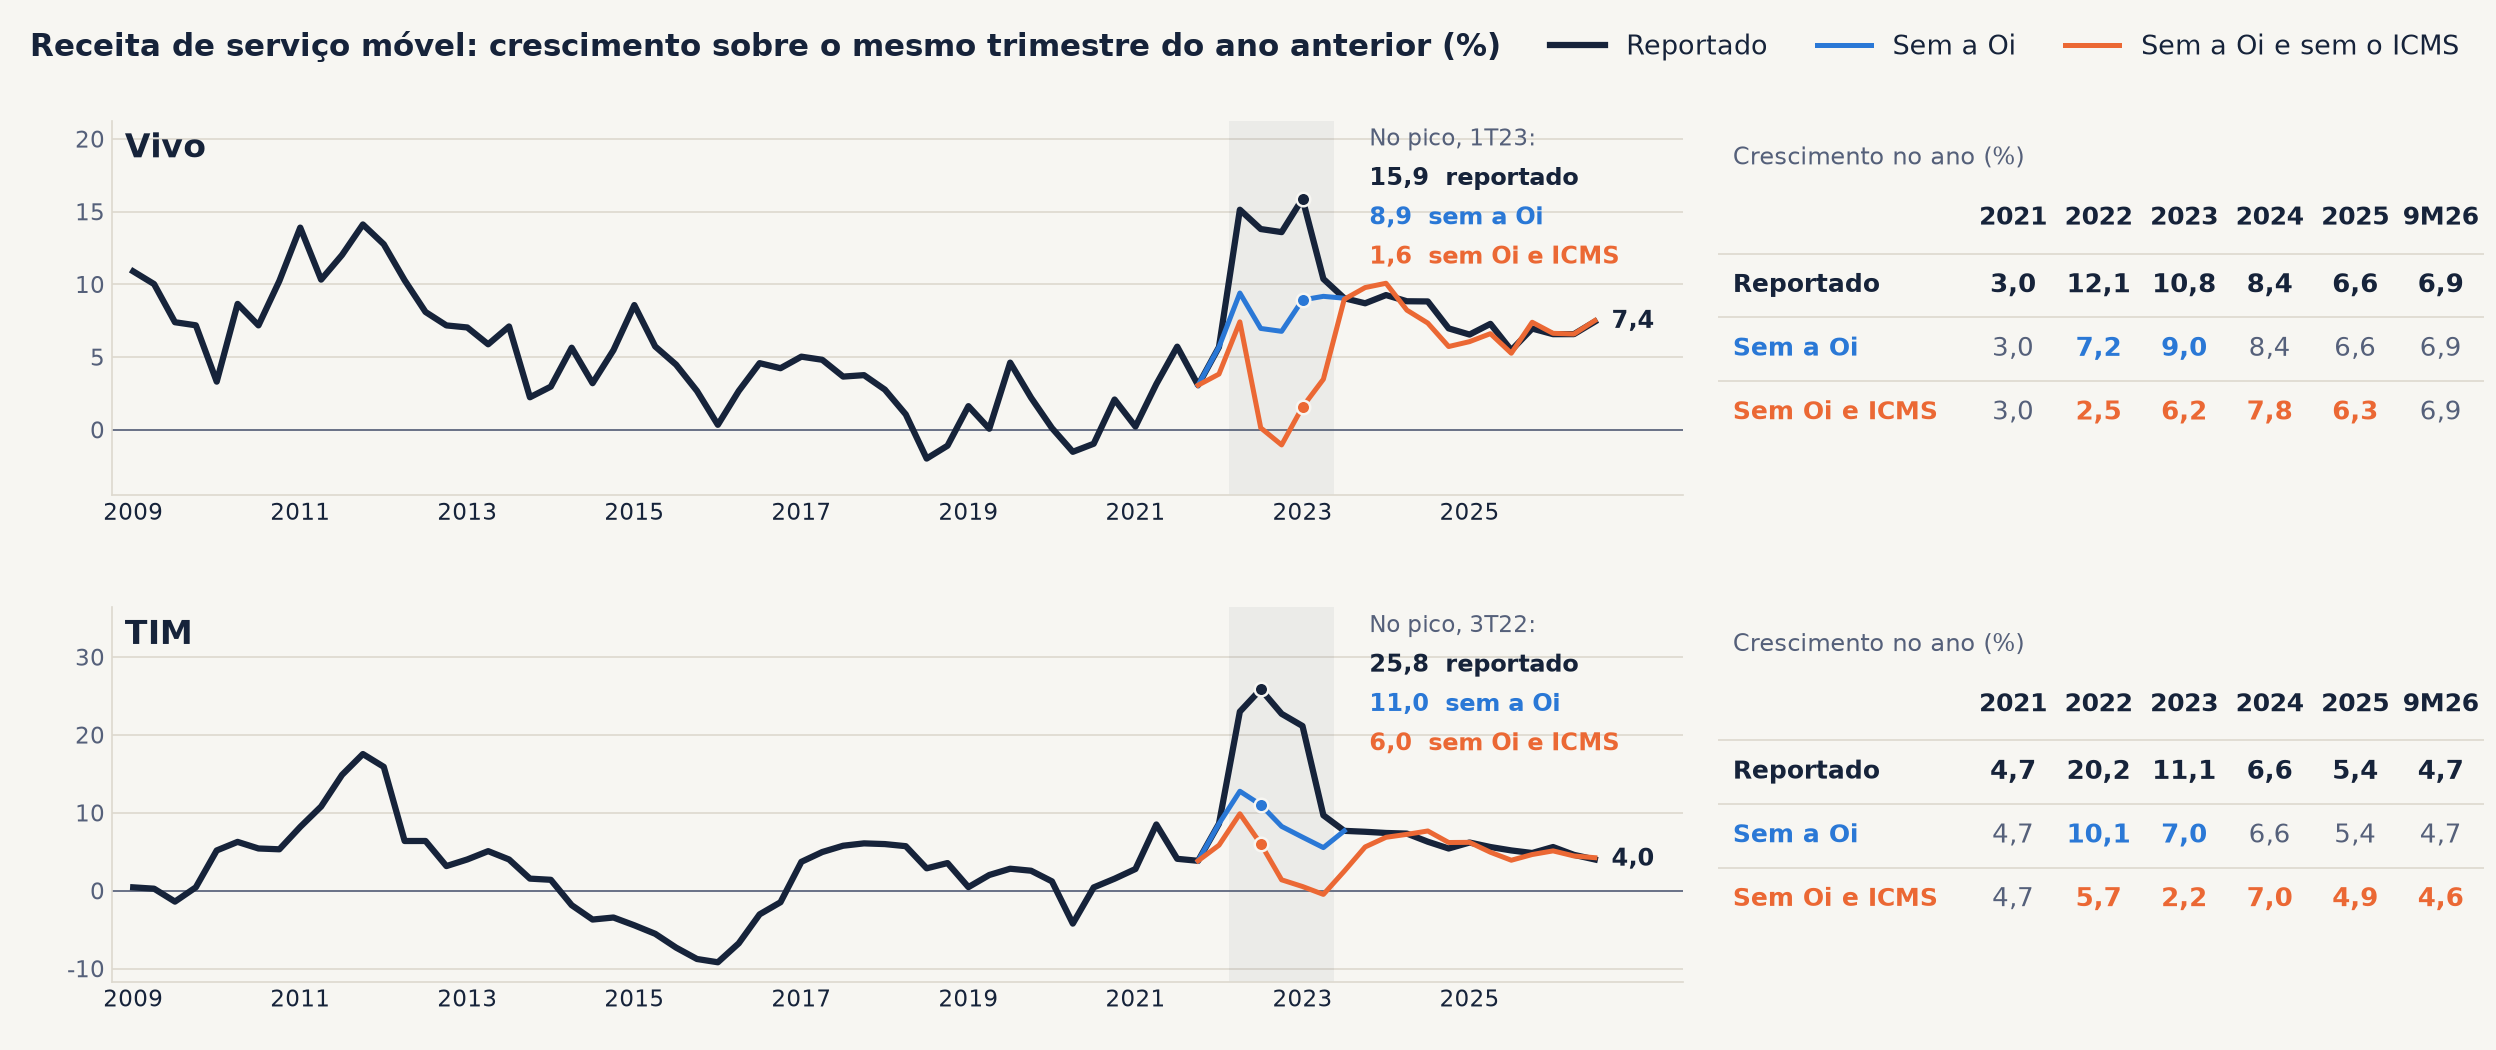
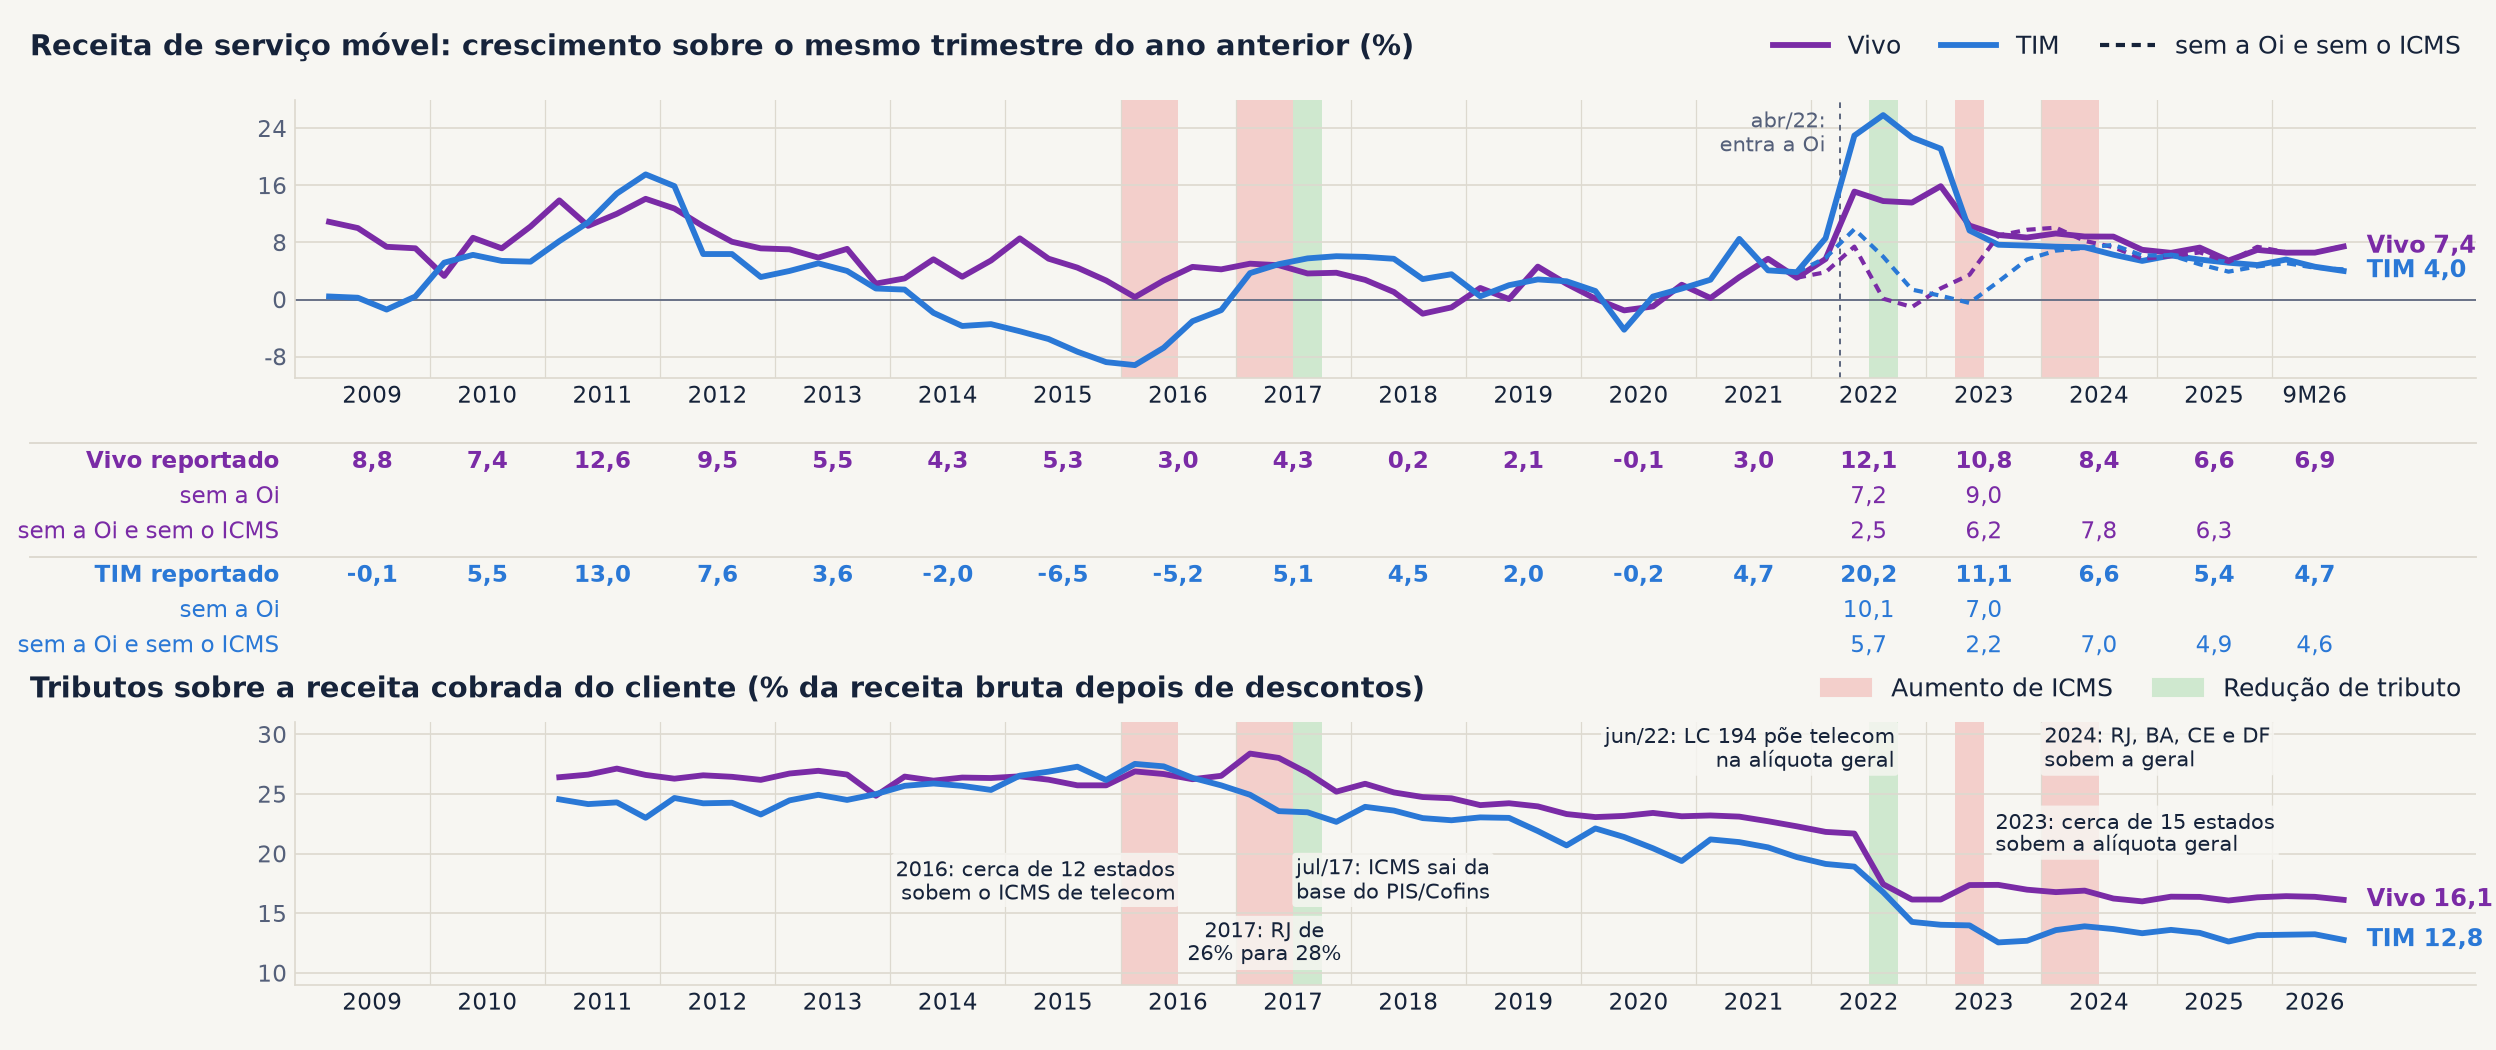
v2.7 · 24/11/2026 19:16 · slide 3 com Vivo e TIM juntas e a linha do tempo do ICMS
Receita de serviço móvel de Vivo e TIM no mesmo gráfico, tabela do
crescimento de cada ano e, no mesmo eixo, os tributos sobre a receita
com os aumentos e reduções de ICMS.

diff --git a/index.html b/index.html
@@ -40,7 +40,7 @@ h1, h2, h3 { font-family:'Space Grotesk', Arial, sans-serif; }
 <div id="palco">
 <section id="capa" class="capa" data-transition="fade">
 <div>
-<p class="chip">v2.6 · 24/11/2026 18:59</p>
+<p class="chip">v2.7 · 24/11/2026 19:16</p>
 </div>
 <div>
 <h1>Telecom Brasil: Vivo e TIM</h1>
@@ -58,9 +58,9 @@ h1, h2, h3 { font-family:'Space Grotesk', Arial, sans-serif; }
 <section id="rsm-limpa" data-transition="fade">
 <p class="olho">ABERTURA · VIVO E TIM: RECEITA MÓVEL SEM A OI E SEM O ICMS</p>
 <h2 class="titulo">Sem a Oi e sem o corte do ICMS, a receita móvel cresceu 2,5% na Vivo e 5,7% na TIM em 2022, não 12,1% e 20,2%; em 2023, 6,2% e 2,2%, não 10,8% e 11,1%</h2>
-<img class="graf" src="img/v3_rsm_limpa.png" alt="Crescimento da receita de serviço móvel de Vivo e de TIM sobre o mesmo trimestre do ano anterior, do 1T09 ao 3T26: reportado, sem a Oi e sem a Oi e sem o corte do ICMS, com a tabela do crescimento anual de 2021 aos nove meses de 2026 nas três medidas">
-<p class="fonte">Fonte: planilhas de RI de Vivo e TIM; ITR e DFP na CVM (receita bruta e líquida). Sem a Oi: tira a receita dos clientes recebidos em abril de 2022 enquanto o ano anterior não os tinha (2T22 a 2T23, faixa cinza). Sem o ICMS: desconta a alta da receita líquida sobre a bruta depois do corte de julho de 2022.</p>
-<aside>Mesma base dos slides sem a Oi e sem o ICMS do deck Móvel Brasil (planilha crescimento_real_movel_oi_icms). Receita da Oi por trimestre cheio: 466 mi na Vivo e 607 mi na TIM no 3T22 (6,0% e 11,8% da receita de serviço móvel). Receita líquida sobre bruta: Vivo de 0,783 para 0,838 e TIM de 0,811 para 0,860 depois do corte, o que soma 7,1% e 6,0% à receita líquida; na TIM o ajuste segue até o 4T23. Vivo, crescimento no ano: 2022, 12,1% reportado, 7,2% sem a Oi e 2,5% sem a Oi e sem o ICMS; 2023, 10,8%, 9,0% e 6,2%; 2024, 8,4% e 7,8% sem o ICMS; 2025, 6,6% e 6,3%; nove meses de 2026, 6,9%. TIM: 2022, 20,2%, 10,1% e 5,7%; 2023, 11,1%, 7,0% e 2,2%; 2024, 6,6% e 7,0%; 2025, 5,4% e 4,9%; nove meses de 2026, 4,7% e 4,6%. No pico: Vivo no 1T23, 15,9% reportado, 8,9% sem a Oi e 1,6% sem os dois; TIM no 3T22, 25,8%, 11,0% e 6,0%. Não separado: o reajuste de preço da base recebida da Oi e a reposição atrasada da inflação, que ficam dentro do crescimento limpo de 2023 e 2024.</aside>
+<img class="graf" src="img/v3_rsm_limpa.png" alt="Em cima, crescimento da receita de serviço móvel de Vivo e de TIM sobre o mesmo trimestre do ano anterior, do 1T09 ao 3T26, reportado e sem a Oi e sem o corte do ICMS, com a tabela do crescimento de cada ano nas três medidas; embaixo, no mesmo eixo de tempo, os tributos sobre a receita cobrada do cliente de Vivo e TIM desde 2011, com as faixas dos aumentos e das reduções de ICMS">
+<p class="fonte">Fonte: RI de Vivo e TIM e CVM (ITR e DFP). Tributos = 1 menos a receita líquida sobre a receita bruta da DVA, que já vem depois de descontos. Sem a Oi: tira os clientes recebidos em abr/22 enquanto o ano anterior não os tinha. Eventos estaduais pela compilação da Teleco; SP e RJ conferidos na lei.</p>
+<aside>Tributos sobre a receita cobrada (CVM, empresa inteira: móvel, fixo e aparelhos): Vivo 26,4% no 1T11, 28,4% no 1T17, 21,7% no 2T22, 16,2% no 1T23, 17,4% no 2T23 e 16,1% no 3T26; TIM 24,6% no 1T11, 27,5% no 1T16, 18,9% no 2T22, 14,0% no 1T23 e 12,8% no 3T26. Linha do tempo: em 2016 cerca de 12 estados subiram o ICMS de telecom (RS de 25% para 30%, MG de 25% para 27%, DF de 25% para 28%); RJ de 26% para 28% no fim de 2016; SP ficou em 25% de 1991 a 2022. Em julho de 2017 a Vivo deixa de incluir o ICMS na base do PIS/Cofins. Em novembro de 2021 o STF decide que telecom não pode pagar acima da alíquota geral, com efeito a partir de 2024; a Lei Complementar 194, de 23/06/2022, antecipa o corte (SP de 25% para 18%). Em 2023 cerca de 15 estados sobem a alíquota geral, e em 2024 RJ (20% mais o fundo de combate à pobreza), BA, CE e DF. A lista por estado vem da compilação da Teleco, consultoria do setor; só SP e RJ foram conferidos na lei. A TIM chega a 2011 pela TIM Participações (até o 2T20) e depois pela TIM S.A.; nos trimestres sem consolidado, demonstração individual. Mesma base dos slides sem a Oi e sem o ICMS do deck Móvel Brasil (planilha crescimento_real_movel_oi_icms) e do gráfico de deduções da Vivo de 17/11/2026. Receita da Oi por trimestre cheio: 466 mi na Vivo e 607 mi na TIM no 3T22 (6,0% e 11,8% da receita de serviço móvel). Receita líquida sobre bruta: Vivo de 0,783 para 0,838 e TIM de 0,811 para 0,860 depois do corte, o que soma 7,1% e 6,0% à receita líquida; na TIM o ajuste segue até o 4T23. Vivo, crescimento no ano: 2022, 12,1% reportado, 7,2% sem a Oi e 2,5% sem a Oi e sem o ICMS; 2023, 10,8%, 9,0% e 6,2%; 2024, 8,4% e 7,8% sem o ICMS; 2025, 6,6% e 6,3%; nove meses de 2026, 6,9%. TIM: 2022, 20,2%, 10,1% e 5,7%; 2023, 11,1%, 7,0% e 2,2%; 2024, 6,6% e 7,0%; 2025, 5,4% e 4,9%; nove meses de 2026, 4,7% e 4,6%. No pico: Vivo no 1T23, 15,9% reportado, 8,9% sem a Oi e 1,6% sem os dois; TIM no 3T22, 25,8%, 11,0% e 6,0%. Não separado: o reajuste de preço da base recebida da Oi e a reposição atrasada da inflação, que ficam dentro do crescimento limpo de 2023 e 2024.</aside>
 </section>
 <section id="rol" data-transition="fade">
 <p class="olho">1 · DESACELERAÇÃO DA RECEITA LÍQUIDA</p>

diff --git a/README.md b/README.md
@@ -1,3 +1,3 @@
 # Telecom Brasil: Vivo e TIM
 
-Deck de telecom (v2.6 · 24/11/2026 18:59): o setor contra a inflação e o PIB, receita, margem, EBITDA, capex e arrendamento, lucro, payout, Fistel e valuation de Vivo e TIM.
+Deck de telecom (v2.7 · 24/11/2026 19:16): o setor contra a inflação e o PIB, receita, margem, EBITDA, capex e arrendamento, lucro, payout, Fistel e valuation de Vivo e TIM.
